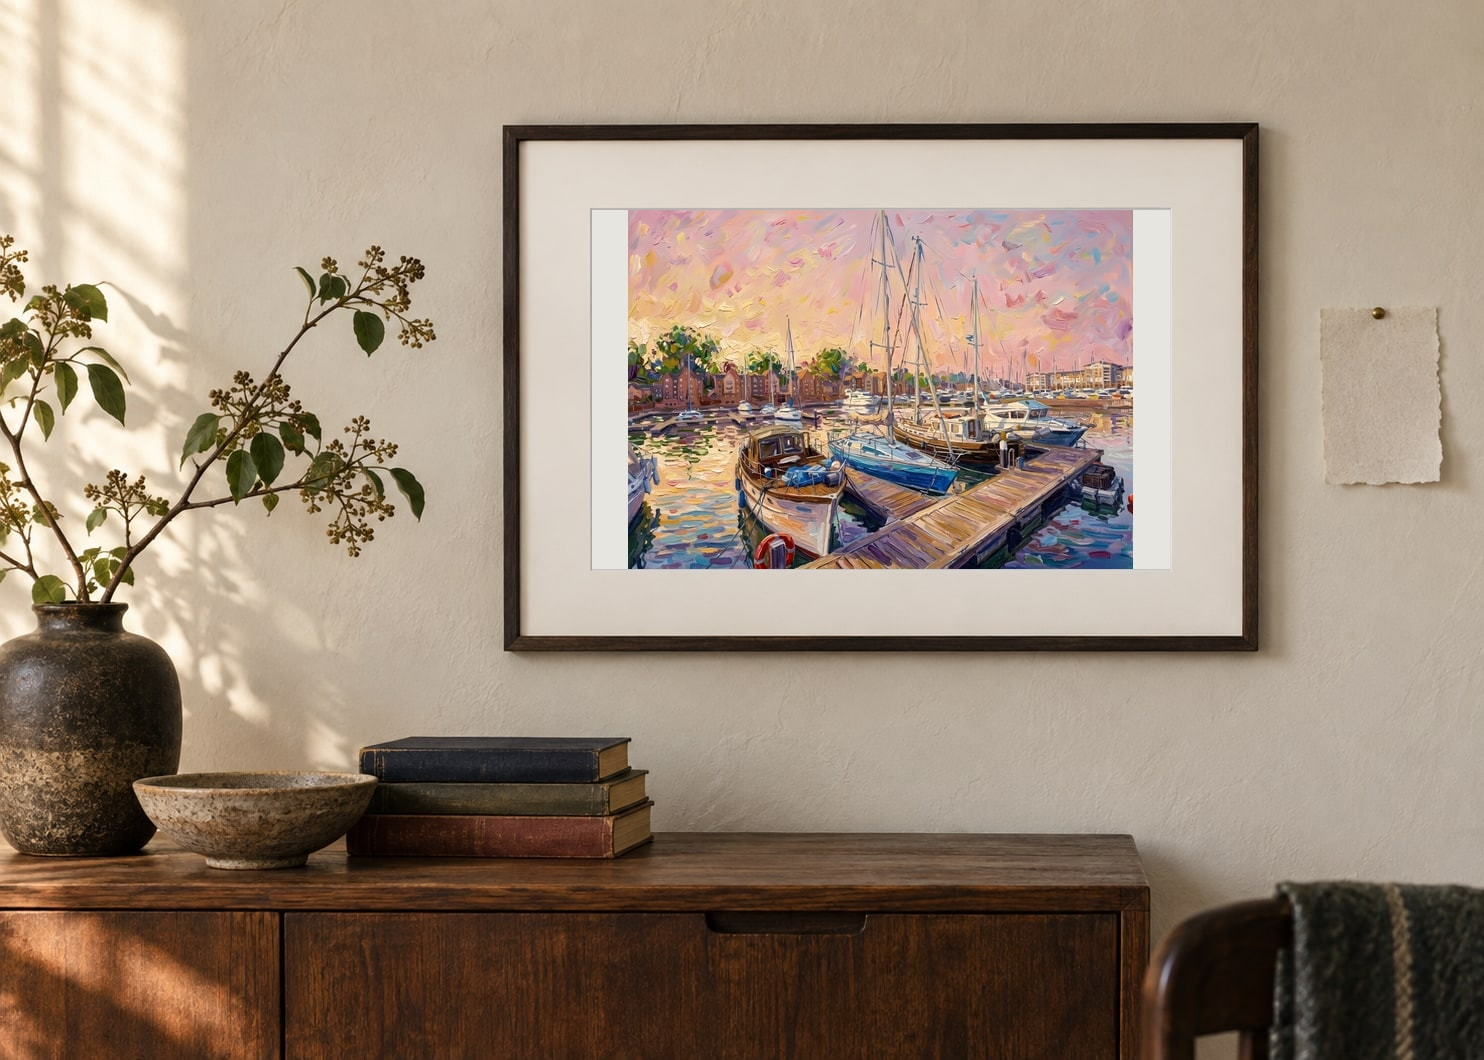
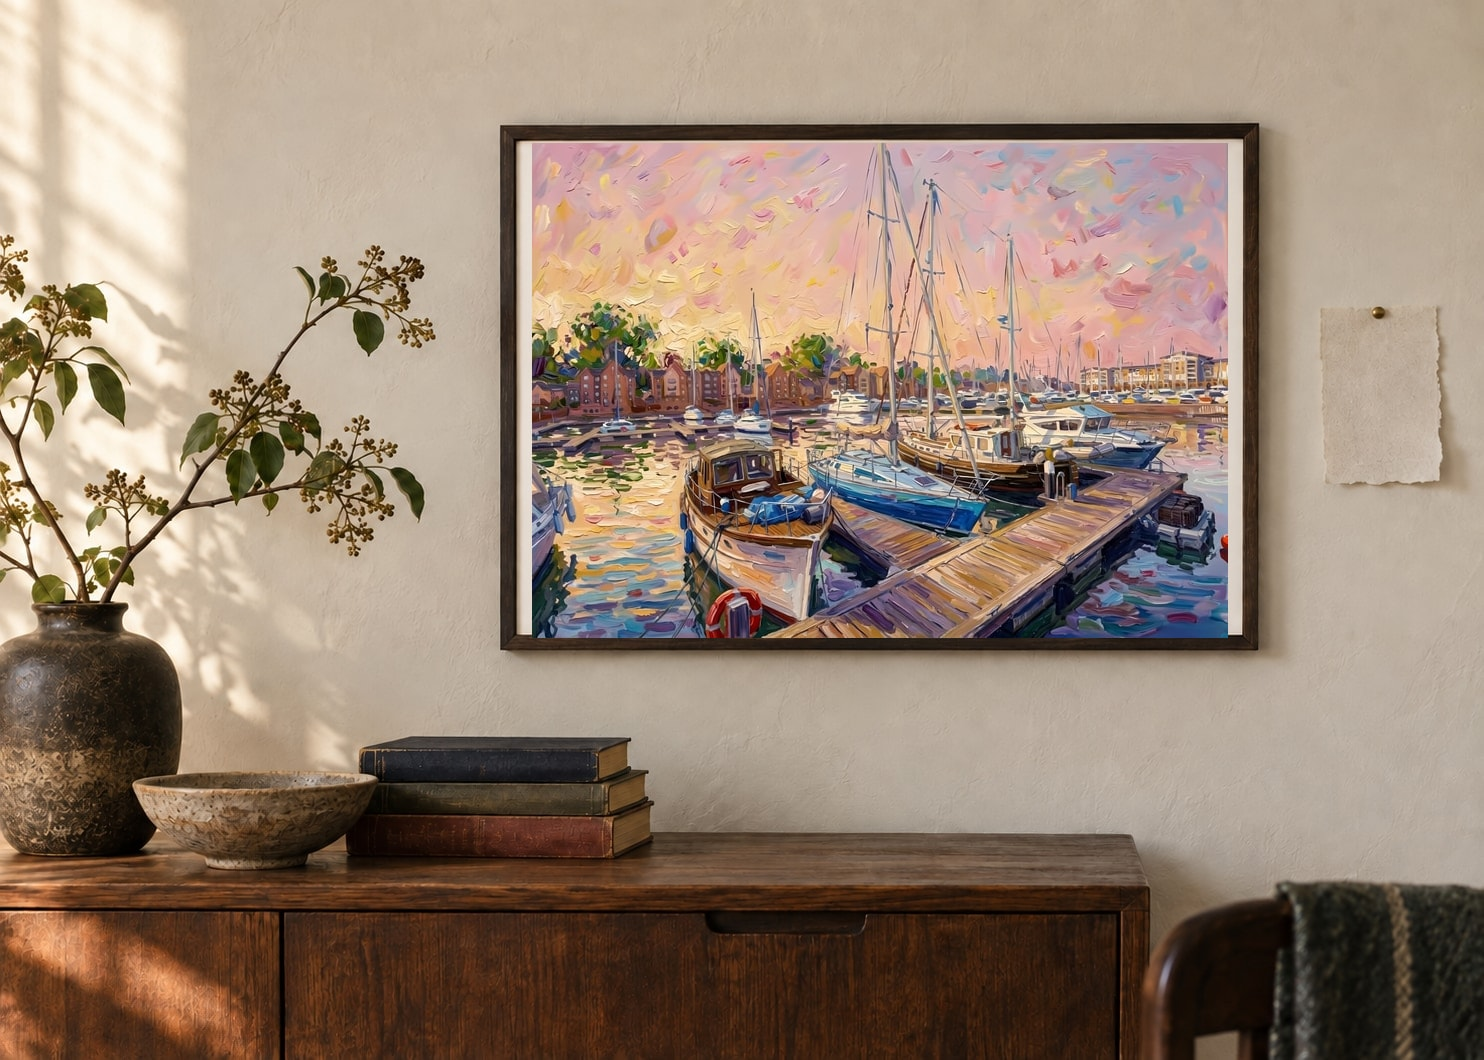
fix(home): rebuild featured artwork scenes

diff --git a/scripts/asset-sources/home-scenes/README.md b/scripts/asset-sources/home-scenes/README.md
@@ -1,0 +1,16 @@
+# Home scene templates
+
+`templates/` contains the approved, artwork-free room scenes used by the Home asset pipeline.
+These reusable source scenes are versioned because they contain no clean production artwork.
+
+Scene-to-artwork placement and provenance live in `data/assets/home-scenes.json`. The build reads
+the approved high-resolution masters from the external `PAPERSEAL_MASTER_DIR` directory and writes
+only contextual composites to `src/assets/home/`.
+
+Regenerate the Home composites with:
+
+```sh
+PAPERSEAL_MASTER_DIR=/path/to/approved-masters bun run assets:home
+```
+
+Never copy production masters into this repository or its public output.
